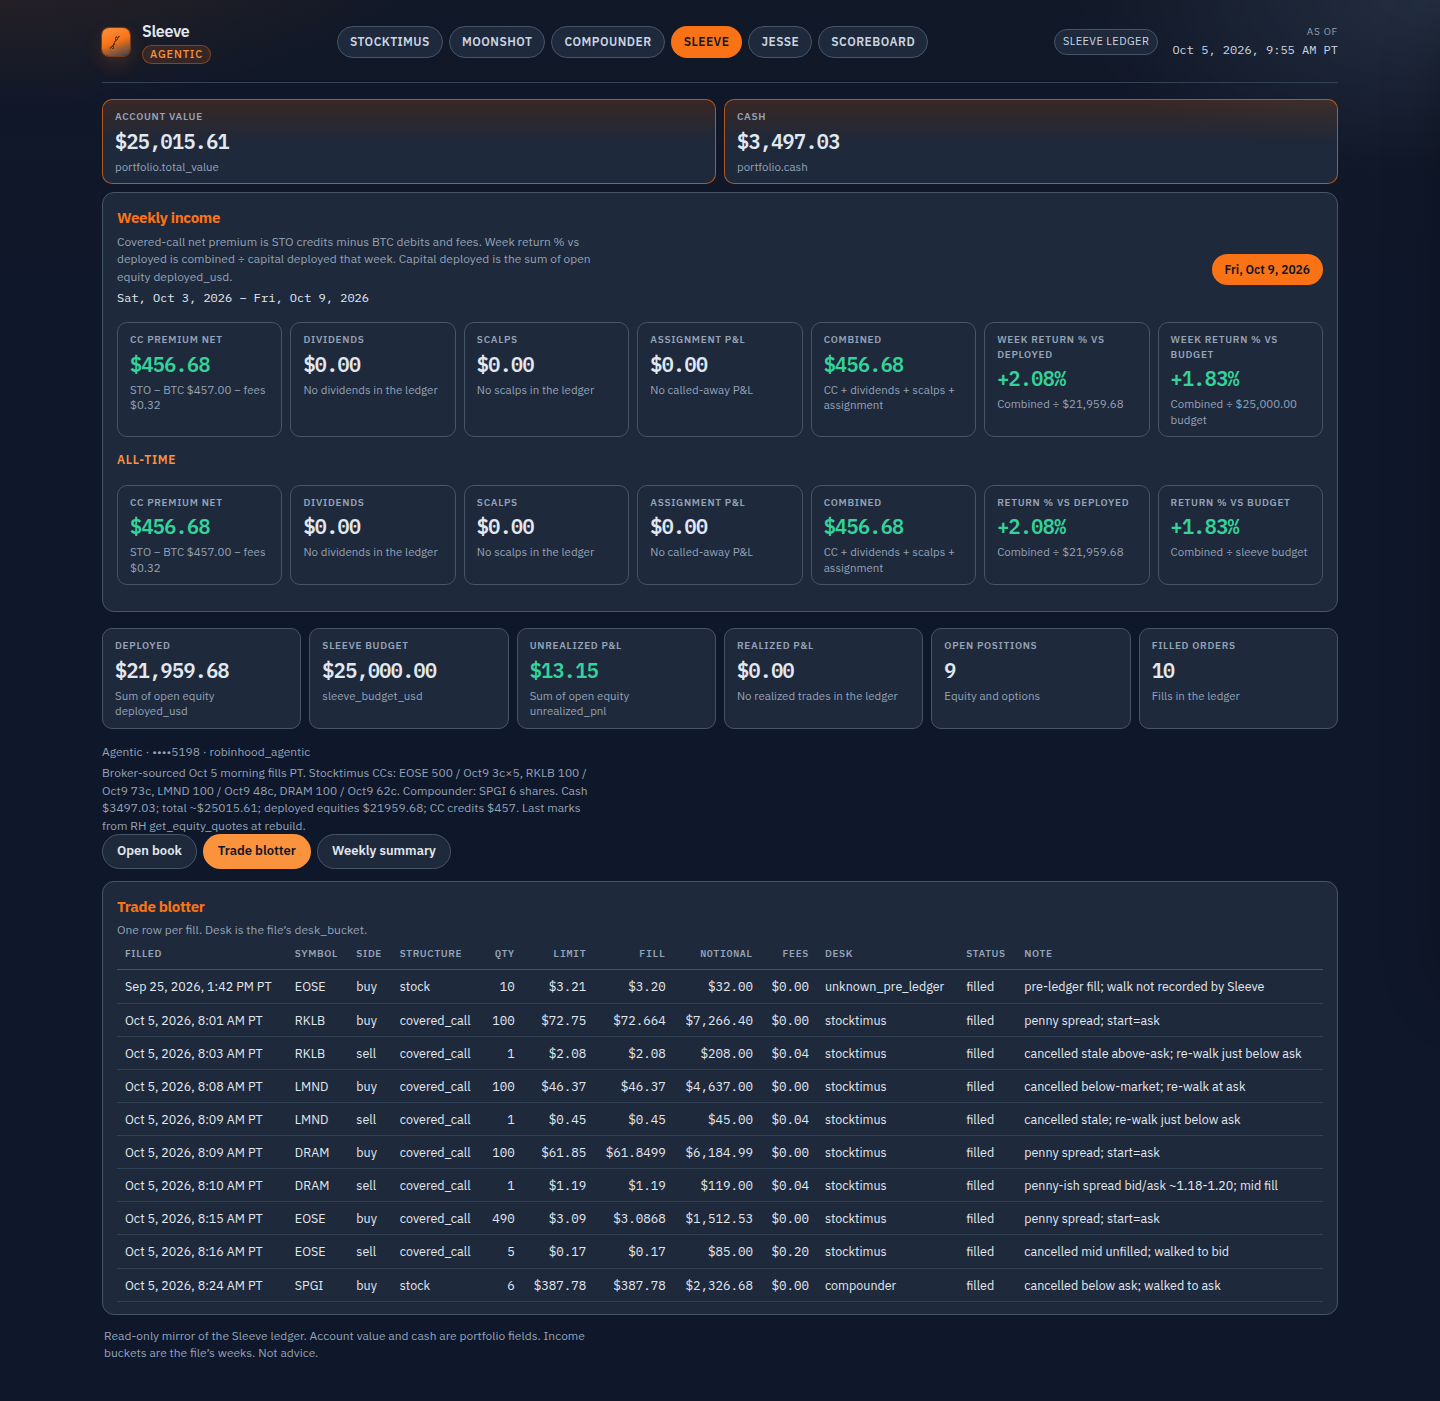
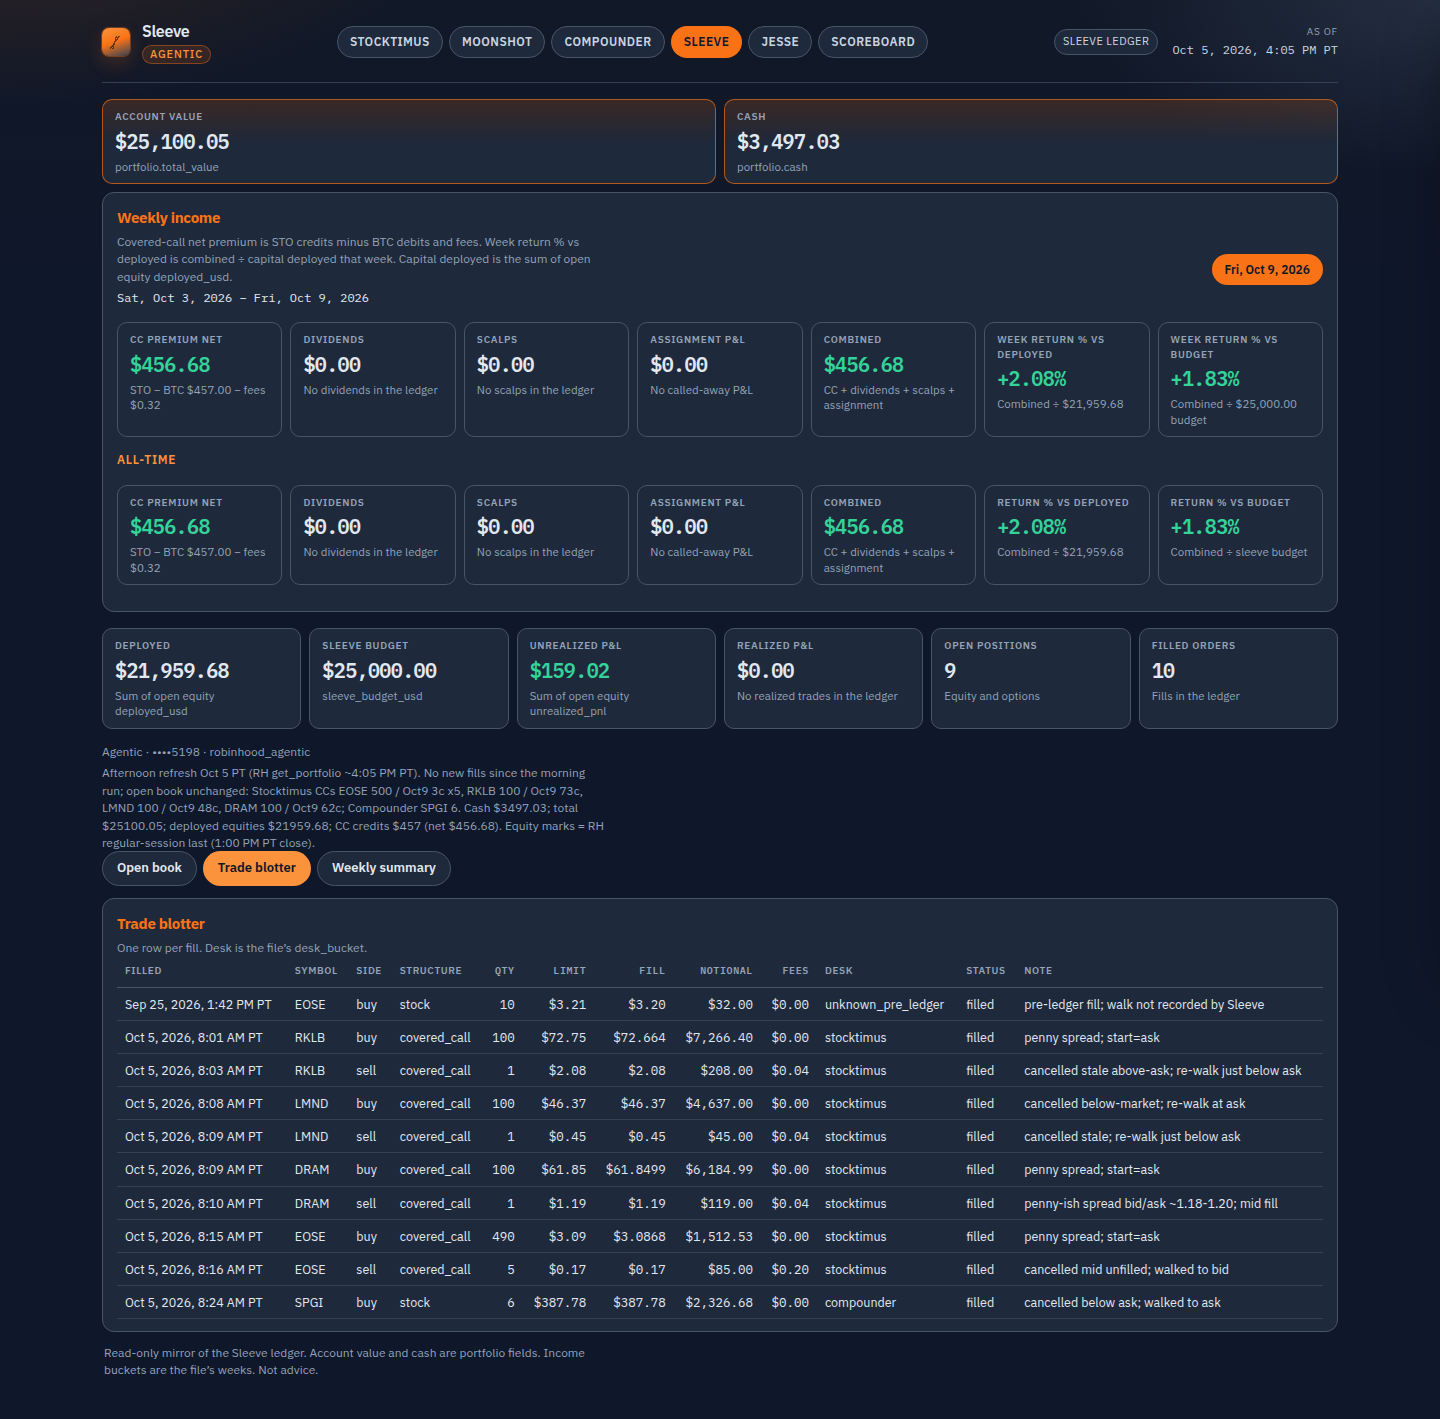
Sleeve book: options on top, spot beside strike, price refresh (#32)
* Show sleeve option spots and a public price refresh.

Put open options above equity, mark short-call ITM when spot is at or above the strike, and refresh those prices from CNBC without writing the ledger.

* Record the sleeve book drive after the spot column.

Doctor and the sleeve tab pass with options above equity and ledger spots beside each strike.

---------

diff --git a/sleeve.js b/sleeve.js
@@ -7,6 +7,10 @@
   const FILE = "./sleeve/trades.json";
   const TZ = "America/Los_Angeles";
   const BUCKETS = ["stocktimus", "compounder", "moonshot", "unknown_pre_ledger"];
+  /* CNBC's public last is CORS-open. Yahoo's chart API is not, so the
+     browser cannot read it. This is not the Robinhood connector. */
+  const QUOTE_LABEL = "live quotes · CNBC";
+  const QUOTE_URL = "https://quote.cnbc.com/quote-html-webservice/restQuote/symbolType/symbol?requestMethod=itv&noform=1&partnerId=2&fund=1&exthrs=1&output=json&events=1&symbols=";
 
   const state = {
     data: null,
@@ -14,6 +18,10 @@
     pane: "book",
     week: null,
     loading: null,
+    quotes: null,
+    quoteLabel: "",
+    quoteError: null,
+    refreshing: false,
   };
 
   const $ = (id) => document.getElementById(id);
@@ -157,6 +165,120 @@
   function optionRows(data) {
     const book = data && data.open_positions;
     return book && Array.isArray(book.options) ? book.options : [];
+  }
+
+  function optionRank(row) {
+    const side = String(row && row.side || "").toLowerCase();
+    const status = String(row && row.status || "open").toLowerCase();
+    const active = status === "open" || status === "active" || status === "";
+    const short = side === "short" || side === "sell" || side === "sto";
+    if (active && short) return 0;
+    if (short) return 1;
+    if (active) return 2;
+    return 3;
+  }
+
+  function orderedOptions(data) {
+    return optionRows(data)
+      .map((row, index) => ({ row: row, index: index, rank: optionRank(row) }))
+      .sort((a, b) => a.rank - b.rank || a.index - b.index)
+      .map((item) => item.row);
+  }
+
+  function symbolKey(symbol) {
+    return String(symbol || "").trim().toUpperCase();
+  }
+
+  function fileSpot(data, symbol) {
+    const key = symbolKey(symbol);
+    if (!key) return null;
+    const row = equityRows(data).find((p) => symbolKey(p.symbol) === key);
+    return row ? num(row.last) : null;
+  }
+
+  function shownSpot(data, symbol) {
+    const key = symbolKey(symbol);
+    if (state.quotes && key && state.quotes[key] != null) return state.quotes[key];
+    return fileSpot(data, symbol);
+  }
+
+  function shortCallCue(row, spot) {
+    const side = String(row && row.side || "").toLowerCase();
+    const type = String(row && row.option_type || "").toLowerCase();
+    const strike = num(row && row.strike);
+    const isShort = side === "short" || side === "sell" || side === "sto";
+    if (!isShort || type !== "call" || spot == null || strike == null) return "";
+    return spot >= strike ? "itm" : "otm";
+  }
+
+  function openSymbols(data) {
+    const seen = [];
+    const add = (symbol) => {
+      const key = symbolKey(symbol);
+      if (!key || seen.indexOf(key) !== -1) return;
+      seen.push(key);
+    };
+    optionRows(data).forEach((row) => add(row.symbol));
+    equityRows(data).forEach((row) => add(row.symbol));
+    return seen;
+  }
+
+  function quoteStatusText() {
+    if (state.refreshing) return "Fetching live quotes…";
+    if (state.quotes) {
+      const base = state.quoteLabel || QUOTE_LABEL;
+      return state.quoteError ? base + " · " + state.quoteError : base;
+    }
+    if (state.quoteError) return state.quoteError + " · ledger marks kept";
+    return "ledger marks · equity last";
+  }
+
+  function fetchLiveQuotes(symbols) {
+    const url = QUOTE_URL + encodeURIComponent(symbols.join("|"));
+    return fetch(url, { cache: "no-store", signal: AbortSignal.timeout(8000) })
+      .then((res) => {
+        if (!res.ok) throw new Error("quotes HTTP " + res.status);
+        return res.json();
+      })
+      .then((body) => {
+        const list = body && body.FormattedQuoteResult && body.FormattedQuoteResult.FormattedQuote;
+        const rows = Array.isArray(list) ? list : [];
+        const wanted = {};
+        symbols.forEach((symbol) => { wanted[symbol] = true; });
+        const out = {};
+        rows.forEach((quote) => {
+          const key = symbolKey(quote && quote.symbol);
+          const last = num(quote && quote.last);
+          if (!key || !wanted[key] || last == null || Number(quote.code) !== 0) return;
+          out[key] = last;
+        });
+        return out;
+      });
+  }
+
+  function refreshPrices() {
+    if (state.refreshing || !state.data) return;
+    const symbols = openSymbols(state.data);
+    if (!symbols.length) return;
+    state.refreshing = true;
+    state.quoteError = null;
+    render();
+    fetchLiveQuotes(symbols)
+      .then((quotes) => {
+        const keys = Object.keys(quotes);
+        if (!keys.length) throw new Error("no quotes");
+        state.quotes = Object.assign({}, state.quotes || {}, quotes);
+        state.quoteLabel = QUOTE_LABEL;
+        const missing = symbols.filter((symbol) => quotes[symbol] == null);
+        state.quoteError = missing.length ? missing.join(", ") + " kept ledger last" : null;
+      })
+      .catch(() => {
+        state.quoteError = state.quotes ? "latest fetch failed" : "Live quotes unavailable";
+      })
+      .then(() => {
+        state.refreshing = false;
+        if (isSleeveHash()) render();
+      });
   }
 
   function fills(data) {
@@ -494,6 +616,12 @@
     return '<tr class="js-empty-row"><td colspan="' + cols + '">' + escapeHtml(msg) + "</td></tr>";
   }
 
+  function equityLastCell(data, symbol) {
+    const shown = shownSpot(data, symbol);
+    const live = state.quotes && state.quotes[symbolKey(symbol)] != null;
+    return '<td class="num sl-equity-last" data-last="' + (shown == null ? "" : String(shown)) + '" data-price-source="' + (live ? "live" : "ledger") + '" title="' + (live ? escapeHtml(QUOTE_LABEL) : "ledger last") + '">' + escapeHtml(price(shown)) + "</td>";
+  }
+
   function renderEquity(data) {
     const rows = equityRows(data);
     const body = rows.length
@@ -510,7 +638,7 @@
           td(escapeHtml(p.side || "—")) +
           td(escapeHtml(shares(p.quantity)), true) +
           td(escapeHtml(price(p.avg_cost)), true) +
-          td(escapeHtml(price(p.last)), true) +
+          equityLastCell(data, p.symbol) +
           td(escapeHtml(money(num(p.deployed_usd))), true) +
           td(unrealHtml, true) +
           td(escapeHtml(p.structure || "—")) +
@@ -530,27 +658,39 @@
   }
 
   function renderOptions(data) {
-    const rows = optionRows(data);
+    const rows = orderedOptions(data);
     const body = rows.length
       ? rows.map((p) => {
         const credit = num(p.credit_usd);
-        return '<tr data-symbol="' + escapeHtml(p.symbol || "") + '" data-bucket="' + escapeHtml(p.desk_bucket || "") + '">' +
+        const spot = shownSpot(data, p.symbol);
+        const cue = shortCallCue(p, spot);
+        const live = state.quotes && state.quotes[symbolKey(p.symbol)] != null;
+        const cueTitle = cue === "itm"
+          ? "Spot is at or above the strike"
+          : cue === "otm"
+            ? "Spot is below the strike"
+            : "";
+        const cueHtml = cue
+          ? ' <span class="sl-cue ' + cue + '" title="' + escapeHtml(cueTitle) + '">' + cue.toUpperCase() + "</span>"
+          : "";
+        return '<tr data-symbol="' + escapeHtml(p.symbol || "") + '" data-side="' + escapeHtml(p.side || "") + '" data-bucket="' + escapeHtml(p.desk_bucket || "") + '" data-cue="' + cue + '">' +
           td(escapeHtml(p.symbol || "—")) +
           td(escapeHtml(p.side || "—")) +
           td(escapeHtml(shares(p.contracts != null ? p.contracts : p.quantity)), true) +
           td(escapeHtml(price(p.strike)), true) +
+          '<td class="num sl-spot' + (cue ? " " + cue : "") + '" data-spot="' + (spot == null ? "" : String(spot)) + '" data-price-source="' + (live ? "live" : "ledger") + '" title="' + (live ? escapeHtml(QUOTE_LABEL) : "ledger equity last") + '">' + escapeHtml(price(spot)) + cueHtml + "</td>" +
           td(escapeHtml(p.expiry || "—")) +
           td(escapeHtml(money(credit)), true) +
           td(escapeHtml(bucketLabel(p.desk_bucket))) +
           td(escapeHtml(p.status || "—")) +
           "</tr>";
       }).join("")
-      : emptyRow(8, "No open option positions.");
+      : emptyRow(9, "No open option positions.");
     return "<h3>Options</h3>" +
       '<div class="js-wrap"><table class="js-table"><thead>' +
       ths([
         { t: "Symbol" }, { t: "Side" }, { t: "Contracts", num: true }, { t: "Strike", num: true },
-        { t: "Expiry" }, { t: "Credit", num: true }, { t: "Desk" }, { t: "Status" },
+        { t: "Spot", num: true }, { t: "Expiry" }, { t: "Credit", num: true }, { t: "Desk" }, { t: "Status" },
       ]) +
       '</thead><tbody id="sl-options">' + body + "</tbody></table></div>";
   }
@@ -717,10 +857,16 @@
 
   function renderBook(data) {
     return '<section class="js-panel" id="sl-open-book" aria-label="Open book">' +
-      "<h2>Open book</h2>" +
-      '<p class="js-note">Positions and working orders from the ledger. Last, unrealized, and option credit are the file’s marks.</p>' +
-      renderEquity(data) +
+      '<header class="js-panel-h">' +
+        "<div><h2>Open book</h2>" +
+        '<p class="js-note">Options sit above equity so active shorts are first. Spot begins as each underlying’s open equity last. Price refresh replaces spot and equity Last in the browser. Unrealized and credit stay the file’s marks.</p></div>' +
+        '<div class="sl-refresh-box">' +
+          '<button type="button" class="sl-refresh" id="sl-price-refresh"' + (state.refreshing ? " disabled" : "") + ">Price refresh</button>" +
+          '<p class="js-note" id="sl-quote-src">' + escapeHtml(quoteStatusText()) + "</p>" +
+        "</div>" +
+      "</header>" +
       renderOptions(data) +
+      renderEquity(data) +
       renderOpenCcs(data) +
       renderOrders(data) +
       "</section>" +
@@ -867,6 +1013,11 @@
     if (!view || view.dataset.bound) return;
     view.dataset.bound = "1";
     view.addEventListener("click", (e) => {
+      const refreshBtn = e.target.closest("#sl-price-refresh");
+      if (refreshBtn && view.contains(refreshBtn)) {
+        refreshPrices();
+        return;
+      }
       const weekBtn = e.target.closest(".js-week");
       if (weekBtn && view.contains(weekBtn)) {
         const nextWeek = weekBtn.getAttribute("data-week");

diff --git a/sleeve.css b/sleeve.css
@@ -87,3 +87,54 @@ html.view-sleeve .brand-text .sub {
 
 html.view-sleeve .js-table .up { color: var(--sh-up, #34d399); }
 html.view-sleeve .js-table .dn { color: var(--sh-dn, #f87171); }
+
+html.view-sleeve .sl-refresh-box {
+  display: flex;
+  flex-direction: column;
+  align-items: flex-end;
+  gap: 4px;
+}
+html.view-sleeve .sl-refresh-box .js-note {
+  margin: 0;
+  text-align: right;
+}
+html.view-sleeve .sl-refresh {
+  font: inherit;
+  cursor: pointer;
+  border: 1px solid transparent;
+  background: #f97316;
+  color: #0f172a;
+  border-radius: 999px;
+  padding: 6px 12px;
+  font-size: 12px;
+  font-weight: 600;
+}
+html.view-sleeve .sl-refresh:hover { background: #fb923c; }
+html.view-sleeve .sl-refresh:disabled {
+  cursor: wait;
+  opacity: 0.65;
+}
+html.view-sleeve .sl-cue {
+  display: inline-block;
+  margin-left: 6px;
+  padding: 1px 6px 0;
+  border-radius: 999px;
+  font-family: "IBM Plex Sans", sans-serif;
+  font-size: 10px;
+  letter-spacing: 0.04em;
+  font-weight: 600;
+  vertical-align: 1px;
+}
+html.view-sleeve .sl-cue.itm {
+  color: #0f172a;
+  background: #f97316;
+}
+html.view-sleeve .sl-cue.otm {
+  color: #94a3b8;
+  background: transparent;
+  border: 1px solid #475569;
+}
+html.view-sleeve td.sl-spot.itm { color: #fb923c; }
+html.view-sleeve #sl-options tr[data-cue="itm"] td {
+  background: rgba(249, 115, 22, 0.12);
+}

diff --git a/index.html b/index.html
@@ -12,7 +12,7 @@
   <link rel="stylesheet" href="scoreboard.css?v=20261002b">
   <link rel="stylesheet" href="shell.css?v=20261002b">
   <link rel="stylesheet" href="jesse.css?v=20260929s">
-  <link rel="stylesheet" href="sleeve.css?v=20261005a">
+  <link rel="stylesheet" href="sleeve.css?v=20261006a">
   <script>
     (function () {
       var h = (location.hash || "").replace(/^#/, "").toLowerCase();
@@ -273,6 +273,6 @@
   <script src="app.js?v=20261002b"></script>
   <script src="scoreboard.js?v=20261002b"></script>
   <script src="jesse.js?v=20261002b"></script>
-  <script src="sleeve.js?v=20261005a"></script>
+  <script src="sleeve.js?v=20261006a"></script>
 </body>
 </html>

diff --git a/.cursor/skills/verify-stocktimus-paper/features/sleeve-tab.md b/.cursor/skills/verify-stocktimus-paper/features/sleeve-tab.md
@@ -9,13 +9,13 @@ Live Robinhood Agentic ledger. Header reads Sleeve / Agentic. Browser tab title 
 - Deployed is the sum of `open_positions.equity` `deployed_usd`. Sleeve budget is `sleeve_budget_usd`. Unrealized P&L is the sum of open equity `unrealized_pnl` when those marks are present. Realized P&L is the sum of `realized_trades`, or `$0.00` when that array is empty.
 - Weekly income (the week containing `as_of`) and all-time income show covered-call net premium, dividends, scalps, assignment P&L, combined, return % vs deployed, and return % vs budget. Week figures come from `weekly_summary` (fallback `weeks`). All-time figures come from `income`. Return % vs deployed reads `week_return_pct_vs_capital`, then `week_return_pct`, and `income.roc_vs_deployed`. Return % vs budget reads `week_return_pct_vs_program` and `income.roc_vs_budget`. The page does not recompute those percents.
 - Sub-nav is Open book and Trade blotter. Weekly summary appears when `weeks` or `weekly_summary` has rows and lists every Friday with the same buckets.
-- Open book lists equity (including last and unrealized), options (credit), open covered calls from `cc_trades`, and open orders. Dividends, scalps, and assignments stay in collapsed sections. Realized trades stay collapsed.
+- Open book lists options above equity so active shorts are first. Within options, open shorts keep file order ahead of other sides. Each option row shows strike and, beside it, the underlying spot. Spot starts as the matching `open_positions.equity` `last`. A short call is marked ITM when that spot is at or above the strike, and OTM when it is below. **Price refresh** asks CNBC’s public quote endpoint for the open symbols and replaces spot and equity Last in memory. The line under the button reads `ledger marks · equity last` until then, and `live quotes · CNBC` after a quote lands. Unrealized and option credit stay the file’s marks. The page does not call Robinhood. Open covered calls come from `cc_trades`, then open orders. Dividends, scalps, and assignments stay in collapsed sections. Realized trades stay collapsed.
 - Trade blotter is one row per `fills[]` entry. Desk is the file `desk_bucket` (`stocktimus`, `compounder`, `moonshot`, or `unknown_pre_ledger`).
 - The masked account id in `account` may show. Rows are not invented.
 
 ## How to get to it (user POV)
 
-Click **Sleeve** in the top bar. The address becomes `#sleeve`. The paper tables disappear and the ledger fills in. Account value and cash sit in the lead pair. Weekly income sits under that. **Weekly summary** lists every Friday. **Trade blotter** lists fills without reloading.
+Click **Sleeve** in the top bar. The address becomes `#sleeve`. The paper tables disappear and the ledger fills in. Account value and cash sit in the lead pair. Weekly income sits under that. Open book shows options above equity, with each strike’s underlying spot and an ITM or OTM mark on short calls. **Price refresh** updates those spots and equity Last from CNBC and labels the line `live quotes · CNBC`. **Weekly summary** lists every Friday. **Trade blotter** lists fills without reloading.
 
 ## Driving it with stocktimus-drive
 
